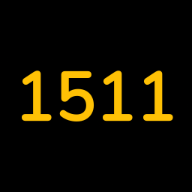
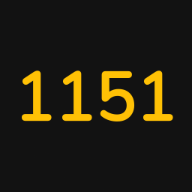
pretty

Changed region(s): [[0.3125, 0.3438, 0.7188, 0.6562]]

diff --git a/docs/static/css/main.css b/docs/static/css/main.css
@@ -1,13 +1,54 @@
 runno-run {
     background-color: black;
     border: solid;
+    border-color: #383838;
     --runno-terminal-height: 150px;
     --runno-terminal-min-height: 150px;
     --runno-editor-height: 40vh;
     --runno-editor-max-height: 40vh;
 }
 
+code {
+    color: rgba(255, 193, 5, 1.0);
+}
+
 body {
     max-width: 56rem;
     margin: auto;
+    background-color: #121212;
+}
+
+* {
+    color: rgba(255, 255, 255, 1.0);
+    font-family: Helvetica, sans-serif;
+}
+
+h2 {
+    color: rgba(255, 255, 255, 0.9);
+}
+
+h3 {
+    color: rgba(255, 255, 255, 0.8);
+}
+
+p, i {
+    color: rgba(255, 255, 255, 0.7);
+}
+
+button {
+    background-color: #343434; /* 16dp elevation */
+    border: none;
+    color: rgba(255,255,255,.9);
+    padding: 15px 32px;
+    text-align: center;
+    text-decoration: none;
+    display: inline-block;
+    font-size: 16px;
+    margin: 10px 5px;
+    transition: 0.3s;
+}
+
+button:hover {
+    cursor: pointer;
+    background-color: #383838; /* 24dp elevation */
 }
